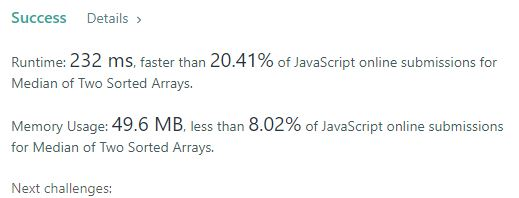
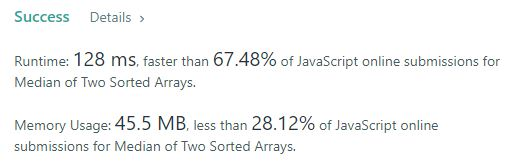
modified solution 4, added solution to prob 13

diff --git a/13_RomanToInteger/13.js b/13_RomanToInteger/13.js
@@ -1,0 +1,65 @@
+let map = {
+    "I": 1,
+    "V": 5,
+    "X": 10,
+    "L": 50,
+    "C": 100,
+    "D": 500,
+    "M": 1000
+};
+
+/**
+ * @param {string} s
+ * @return {number}
+ */
+let romanToInt = (s) => {
+    let m = [];
+    for (let k = 0; k < s.length; k++) {
+
+        if (s[k] === "I") {
+            if (s[k + 1] && (s[k + 1] === "V" || s[k + 1] === "X")) {
+                m.push(-1 * map[s[k]]);
+                continue;
+
+            }
+        }
+
+        else if (s[k] === "X") {
+            if (s[k + 1] && (s[k + 1] === "L" || s[k + 1] === "C")) {
+                m.push(-1 * map[s[k]]);
+                continue;
+
+            }
+        }
+
+        else if (s[k] === "C") {
+            if (s[k + 1] && (s[k + 1] === "D" || s[k + 1] === "M")) {
+                m.push(-1 * map[s[k]]);
+                continue;
+
+
+            }
+        }
+
+        m.push(map[s[k]]);
+    }
+
+    return m.reduce((acc, x) => {
+        return acc + x;
+    }, 0);
+};
+
+
+
+function runTest() {
+    //console.log(romanToInt("III"));
+    // console.log(romanToInt("IV"));
+    // console.log(romanToInt("IX"));
+    console.log(romanToInt("LVIII"));
+    console.log(romanToInt("MCMXCIV"));
+}
+
+runTest();
+
+
+

diff --git a/4_MedianOfTwoSortedArrays/4.js b/4_MedianOfTwoSortedArrays/4.js
@@ -9,6 +9,9 @@ let findMedianSortedArrays = (nums1, nums2) => {
     let largerArr = smallerArr === nums2 ? nums1 : nums2;
 
     if (largerArr.length === 1) {
+        if (smallerArr.length === 0) {
+            return largerArr[0];
+        }
         return (largerArr[0] + smallerArr[0]) / 2;
     }
 
